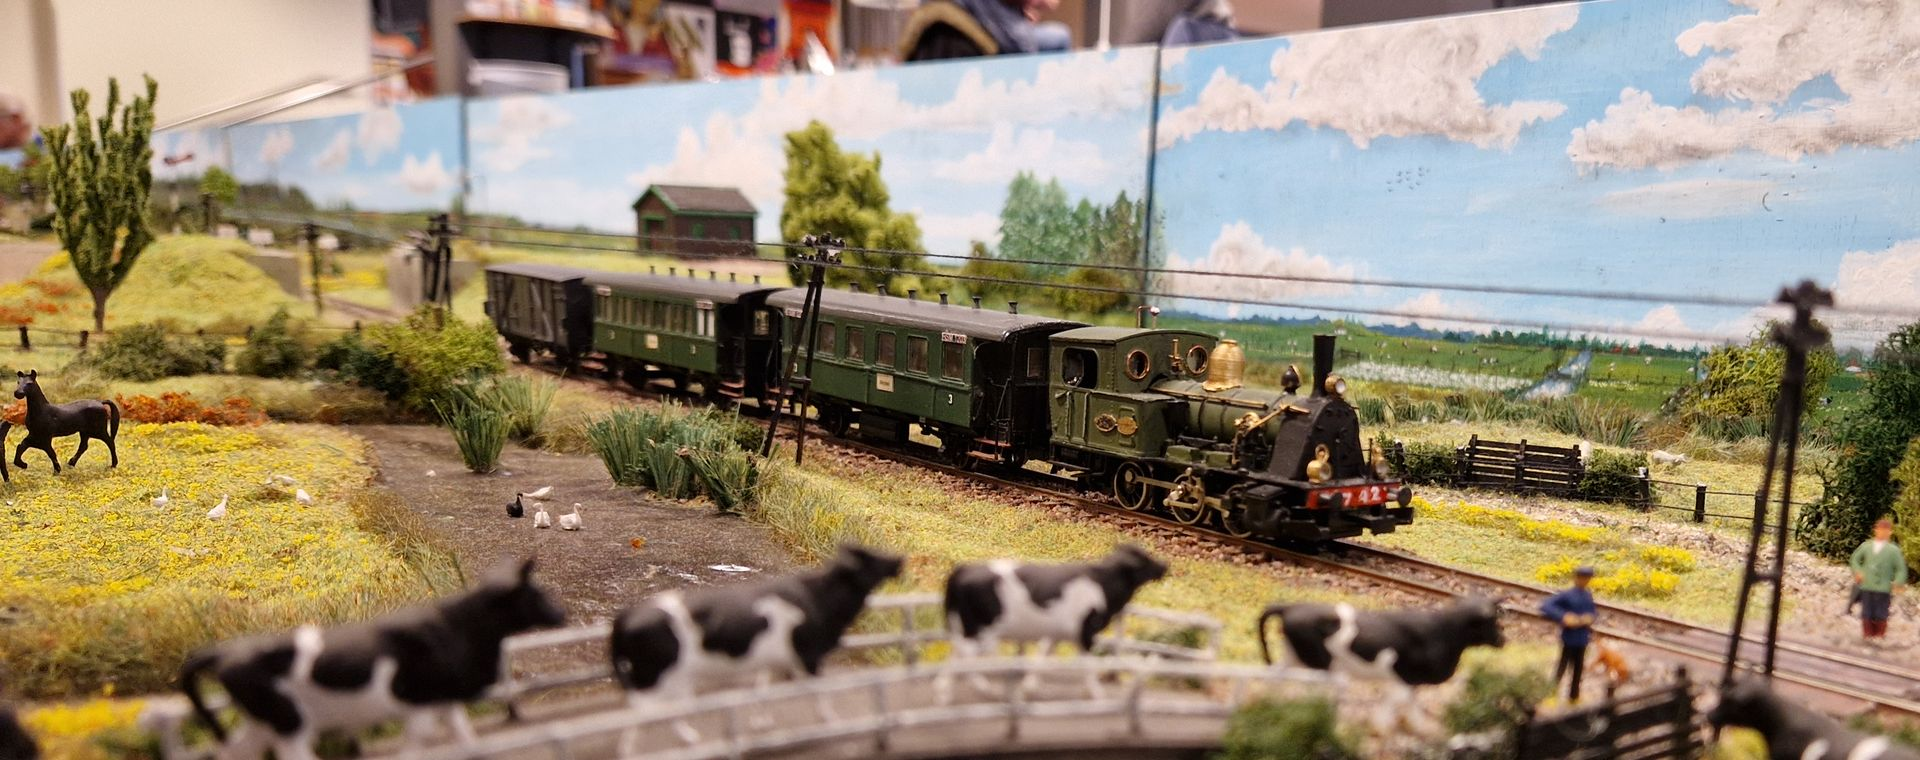
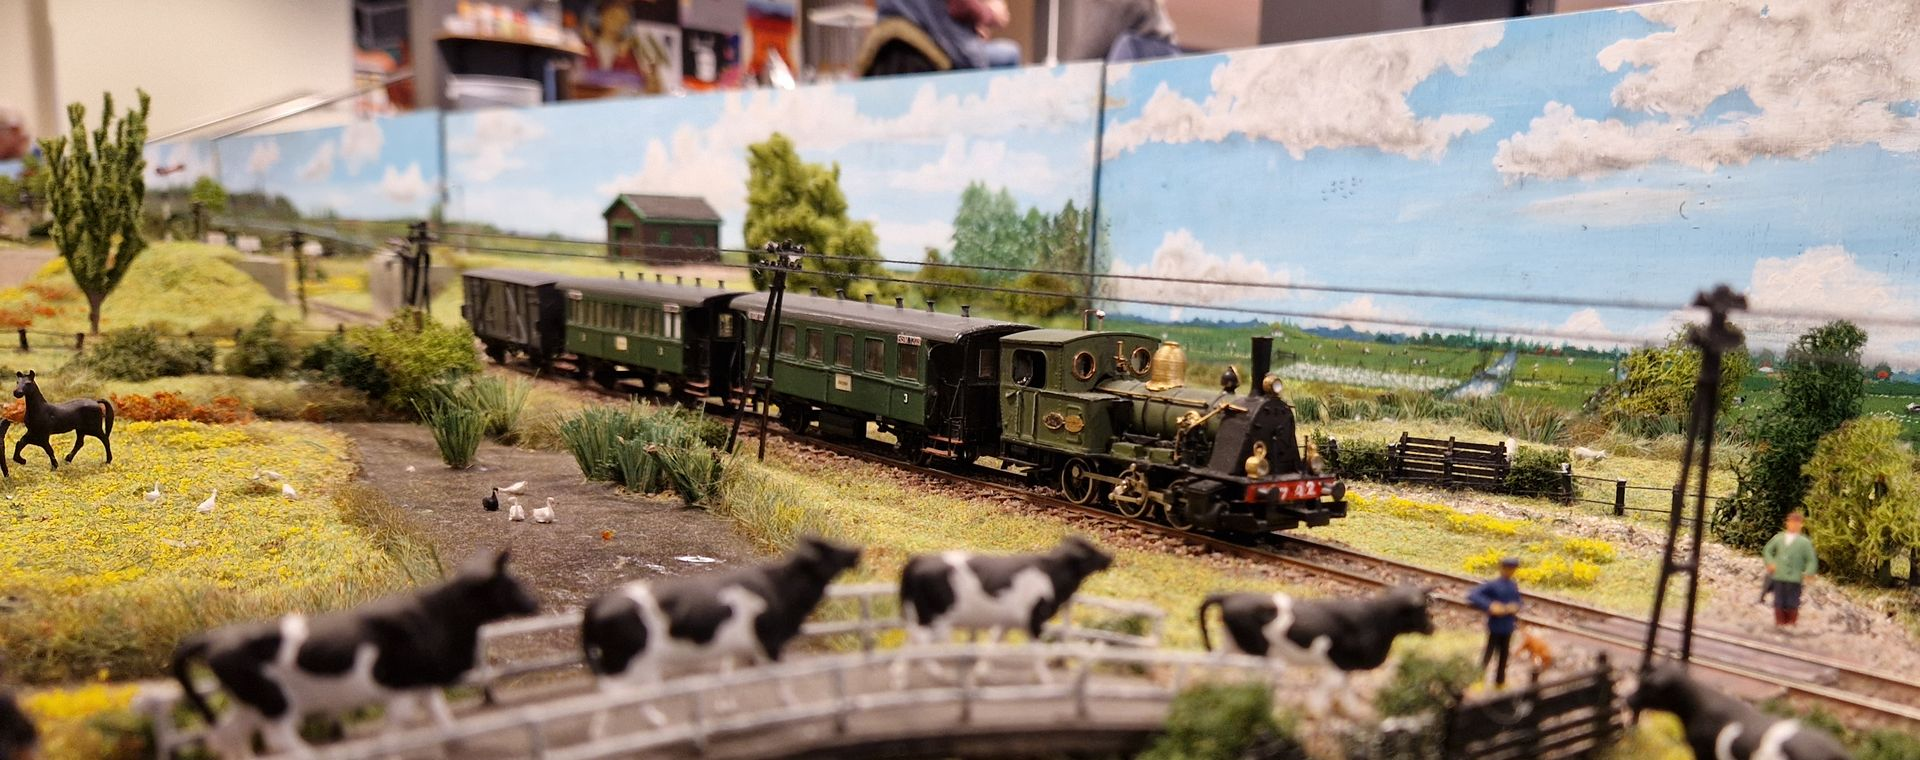
correct the club copy and fix the next-event rollover
Copy corrections from the club
- De Club: "club van liefhebbers" rather than modelspoorbouwers; the premises
  are basisschool 'De Kring'; the club organises the Noord-Hollandse
  Modelspoordagen rather than merely taking part. The NMD page already said
  this, so De Club was the only page understating it.
- The Alkmaarbaan's second bridge was wrong in both type and place: it is the
  bolbrug over het kanaal bij Heerhugowaard, not a klapbrug over the kanaal
  Alkmaar-Kolhorn. banen.json separately had a klapbrug over the Noordhollands
  Kanaal, which is the right canal but the wrong bridge.
- Board members are listed by initial and surname.
- Dropped the Holderdebolder reference on the contact page.

Spelling and punctuation, site-wide
- Six words were missing a diaeresis: geinteresseerd, geinspireerd and
  industriele, across five files.
- Removed every em-dash. The replacement is per sentence, not a blanket swap:
  a colon where the clause explains, paired commas for an apposition, a full
  stop where two sentences were joined, and a middle dot for the carousel's
  title/description separator. One line was rewritten because no punctuation
  mark took the dash's job cleanly.

Next event
- upcomingEvents compared parsed Date objects, but "2026-09-12" parses as UTC
  midnight, which falls on the previous local day in a negative UTC offset. An
  event was retired a day early there: on 12 September in UTC-7 the header
[…]

diff --git a/src/utils.ts b/src/utils.ts
@@ -34,12 +34,28 @@ export const typeLabels: Record<string, string> = {
   overig: 'Overig',
 };
 
-/** Events that have not finished yet, soonest first. Evaluated at build time. */
-export function upcomingEvents(events: EventItem[], limit?: number): EventItem[] {
-  const today = new Date();
-  today.setHours(0, 0, 0, 0);
+/** Local calendar day as YYYY-MM-DD, matching the format used in events.json. */
+function isoDay(d: Date): string {
+  const pad = (n: number) => String(n).padStart(2, '0');
+  return `${d.getFullYear()}-${pad(d.getMonth() + 1)}-${pad(d.getDate())}`;
+}
+
+/**
+ * Events that have not finished yet, soonest first.
+ *
+ * An event stays in the list for the whole of its own day (and, for a range,
+ * through its endDate) and drops out the day after, so the head of the list is
+ * always the next event. Dates are compared as YYYY-MM-DD strings rather than
+ * Date objects: parsing "2026-09-12" yields UTC midnight, which lands on the
+ * wrong side of a local midnight in negative UTC offsets and would retire an
+ * event a day early.
+ *
+ * `today` is injectable so the rollover can be tested at a fixed date.
+ */
+export function upcomingEvents(events: EventItem[], limit?: number, today: Date = new Date()): EventItem[] {
+  const cutoff = isoDay(today);
   const upcoming = events
-    .filter(e => new Date(e.endDate || e.date) >= today)
+    .filter(e => (e.endDate || e.date) >= cutoff)
     .sort((a, b) => a.date.localeCompare(b.date));
   return limit === undefined ? upcoming : upcoming.slice(0, limit);
 }

diff --git a/src/content.config.ts b/src/content.config.ts
@@ -7,7 +7,7 @@ import { glob } from 'astro/loaders';
 // than rendering blank on the site.
 //
 // Note on dates: the project rule is that dates stay out of article copy. The
-// `date` here is structured metadata used for sorting and the dateline — keep
+// `date` here is structured metadata used for sorting and the dateline; keep
 // the body text itself undated so it does not go stale.
 const nieuws = defineCollection({
   loader: glob({ pattern: '**/*.md', base: './src/content/nieuws' }),

diff --git a/src/content/nieuws/n-modulebaan-van-start.md b/src/content/nieuws/n-modulebaan-van-start.md
@@ -10,4 +10,4 @@ Naast de bestaande modulebaan in H0 begint de club aan een tweede modulebaan,
 ditmaal in N-schaal. De opzet is dezelfde: losse modules die door verschillende
 leden thuis gebouwd worden en op exposities aan elkaar gekoppeld worden.
 
-Wie mee wil bouwen kan op een clubavond aansluiten — ervaring is geen vereiste.
+Wie mee wil bouwen kan op een clubavond aansluiten. Ervaring is geen vereiste.
